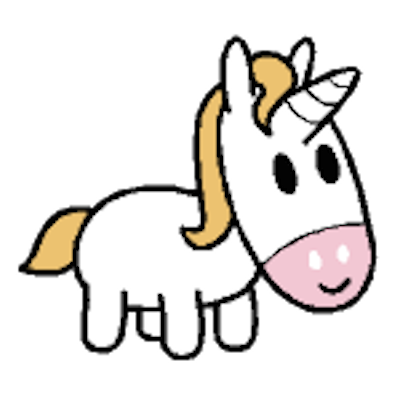
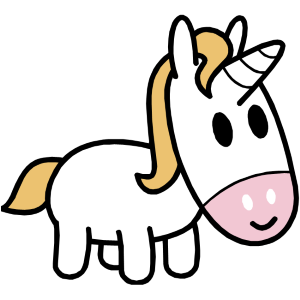
:art: Better images and branding

Changed region(s): [[0.0, 0.03, 1.0, 0.96]]

diff --git a/CompletedSource/UnicornClicker/UnicornClicker/MenuPage.cs b/CompletedSource/UnicornClicker/UnicornClicker/MenuPage.cs
@@ -21,7 +21,18 @@ namespace XamarinFormsTest
 
 			Content = new StackLayout {
 				VerticalOptions = LayoutOptions.Center,
-				Children = { play, scores }
+				Children = { 
+					new Image{
+						Source = ImageSource.FromFile("UnicornSmall.png")
+					},
+					new Label {
+						Text = "Unicorn Clicker",
+						FontSize = 20,
+						XAlign = TextAlignment.Center
+					},
+					play, 
+					scores
+				}
 			};
 		}
 	}

diff --git a/CompletedSource/UnicornClicker/Droid/Resources/Resource.designer.cs b/CompletedSource/UnicornClicker/Droid/Resources/Resource.designer.cs
@@ -50,6 +50,9 @@ namespace XamarinFormsTest.Droid
 			// aapt resource value: 0x7f020001
 			public const int Unicorn = 2130837505;
 			
+			// aapt resource value: 0x7f020002
+			public const int UnicornSmall = 2130837506;
+			
 			static Drawable()
 			{
 				global::Android.Runtime.ResourceIdManager.UpdateIdValues();
